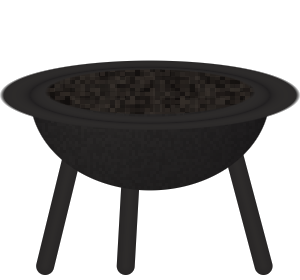
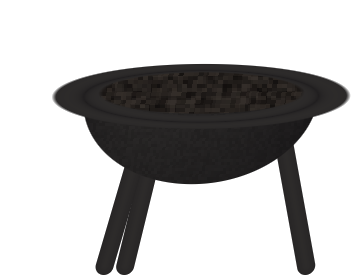
feat(title): the floor props stand in the perspective, and stop being mirrors (TD-073 T264)
Two faults, one pass.

Both racks and both braziers were the same file drawn twice, so the hall was
symmetrical in a way the plate's own walls deliberately are not. Each is now
its own seeded variant — taper counts and heights, bowl proportions, leg
spin, wax runs, wear — and the right-hand pair stands further down the nave:
smaller, higher in frame.

And they were drawn PLUMB in a scene whose camera is pitched up 15 degrees,
where every vertical converges on a zenith at fy ~= -2.05. Each prop is now
sheared toward the zenith its own floor position implies (lean_for), between
6 and 13 degrees. A shear, not a rotation: the foot stays where it was placed
and only the height tilts, which is what perspective does to a standing
object. Canvas pads the image for the shear; gen_title_props.py prints the
VESSELS lines so the rig's numbers stay derived rather than typed.

FIRES moved with the vessels — a fire burns ON something.

Slots 18 -> 20. title_assets --check caught the two new files missing from
the manifest before I did, which is the check doing its job. Captured in both
motion states; gen_title_arch --verify still exact.

diff --git a/docs/technical/spec-status.html b/docs/technical/spec-status.html
@@ -232,7 +232,7 @@ footer { margin-top:44px; padding-top:16px; border-top:1px solid var(--rule-soft
 </div>
 
 <script>
-const ROWS = [{"name":"mobile-input","done":0,"open":10,"superseded":0,"open_ids":["T148","T149","T150","T151","T151a","T152","T153","T154","T155","T156"],"blocked":[],"missing":["client/scripts/input/floating_stick.gd","client/scripts/input/geometry_selftest.gd","geometry_selftest.gd","client/scripts/input/touch_hud.gd","client/scripts/input/action_cluster.gd","client/scripts/input/probe_wheel.gd","input_scheme.gd"],"shipped_hint":[],"banner":null,"last":"2026-07-11","days":13,"status":"dormant","claude":null,"flags":[{"kind":"MISSING","detail":"open tasks name 7 file(s) not in the tree: client/scripts/input/floating_stick.gd, client/scripts/input/geometry_selftest.gd, geometry_selftest.gd, client/scripts/input/touch_hud.gd"}]},{"name":"station-ui","done":3,"open":6,"superseded":0,"open_ids":["T125","T126","T127","T128","T129","T130"],"blocked":[],"missing":["gear_slot.tscn","item_detail.tscn","ui_theme.gd"],"shipped_hint":[],"banner":null,"last":"2026-07-24","days":0,"status":"dormant","claude":"partial","flags":[{"kind":"MISSING","detail":"open tasks name 3 file(s) not in the tree: gear_slot.tscn, item_detail.tscn, ui_theme.gd"}]},{"name":"title-scene","done":14,"open":1,"superseded":0,"open_ids":["T262"],"blocked":["T262"],"missing":[],"shipped_hint":[],"banner":null,"last":"2026-07-25","days":0,"status":"blocked","claude":"active","flags":[]},{"name":"collegium-client","done":6,"open":1,"superseded":0,"open_ids":["T121"],"blocked":[],"missing":[],"shipped_hint":[],"banner":null,"last":"2026-07-24","days":0,"status":"dormant","claude":null,"flags":[]},{"name":"nave-cathedral","done":3,"open":2,"superseded":0,"open_ids":["T252","T253"],"blocked":[],"missing":[],"shipped_hint":[],"banner":null,"last":"2026-07-23","days":1,"status":"dormant","claude":null,"flags":[]},{"name":"ambient-signs","done":4,"open":0,"superseded":0,"open_ids":[],"blocked":[],"missing":[],"shipped_hint":[],"banner":null,"last":"2026-07-02","days":22,"status":"done","claude":null,"flags":[]},{"name":"board-banner","done":5,"open":0,"superseded":0,"open_ids":[],"blocked":[],"missing":[],"shipped_hint":[],"banner":null,"last":"2026-07-14","days":10,"status":"done","claude":"completed","flags":[]},{"name":"board-blend","done":7,"open":0,"superseded":0,"open_ids":[],"blocked":[],"missing":[],"shipped_hint":[],"banner":null,"last":"2026-07-21","days":3,"status":"done","claude":"completed","flags":[]},{"name":"board-consistency","done":6,"open":0,"superseded":0,"open_ids":[],"blocked":[],"missing":[],"shipped_hint":[],"banner":null,"last":"2026-07-14","days":11,"status":"done","claude":"completed","flags":[]},{"name":"board-header","done":5,"open":0,"superseded":0,"open_ids":[],"blocked":[],"missing":[],"shipped_hint":[],"banner":null,"last":"2026-07-16","days":8,"status":"done","claude":"completed","flags":[]},{"name":"board-heraldry","done":4,"open":0,"superseded":0,"open_ids":[],"blocked":[],"missing":[],"shipped_hint":[],"banner":null,"last":"2026-07-13","days":11,"status":"done","claude":"active","flags":[]},{"name":"board-lighting","done":14,"open":0,"superseded":1,"open_ids":[],"blocked":[],"missing":[],"shipped_hint":[],"banner":null,"last":"2026-07-13","days":11,"status":"done","claude":"completed","flags":[]},{"name":"collegium","done":11,"open":0,"superseded":0,"open_ids":[],"blocked":[],"missing":[],"shipped_hint":[],"banner":null,"last":"2026-07-05","days":19,"status":"done","claude":"completed","flags":[]},{"name":"contract-generation","done":5,"open":0,"superseded":0,"open_ids":[],"blocked":[],"missing":[],"shipped_hint":[],"banner":null,"last":"2026-07-02","days":22,"status":"done","claude":null,"flags":[]},{"name":"contract-reader","done":6,"open":0,"superseded":0,"open_ids":[],"blocked":[],"missing":[],"shipped_hint":[],"banner":null,"last":"2026-07-21","days":3,"status":"done","claude":"completed","flags":[]},{"name":"dependency-map","done":5,"open":0,"superseded":0,"open_ids":[],"blocked":[],"missing":[],"shipped_hint":[],"banner":null,"last":"2026-07-14","days":11,"status":"done","claude":"completed","flags":[]},{"name":"distributed-perception","done":6,"open":0,"superseded":0,"open_ids":[],"blocked":[],"missing":[],"shipped_hint":[],"banner":null,"last":"2026-07-02","days":22,"status":"done","claude":null,"flags":[]},{"name":"field-phase","done":16,"open":0,"superseded":0,"open_ids":[],"blocked":[],"missing":[],"shipped_hint":[],"banner":null,"last":"2026-07-02","days":22,"status":"done","claude":null,"flags":[]},{"name":"field-space","done":9,"open":0,"superseded":0,"open_ids":[],"blocked":[],"missing":[],"shipped_hint":[],"banner":null,"last":"2026-07-05","days":19,"status":"done","claude":"completed","flags":[]},{"name":"godot-client-catchup","done":9,"open":0,"superseded":0,"open_ids":[],"blocked":[],"missing":[],"shipped_hint":[],"banner":null,"last":"2026-07-03","days":21,"status":"done","claude":null,"flags":[]},{"name":"incarnate-signs","done":6,"open":0,"superseded":0,"open_ids":[],"blocked":[],"missing":[],"shipped_hint":[],"banner":null,"last":"2026-07-02","days":22,"status":"done","claude":null,"flags":[]},{"name":"loadout-economy","done":7,"open":0,"superseded":0,"open_ids":[],"blocked":[],"missing":[],"shipped_hint":[],"banner":null,"last":"2026-07-03","days":21,"status":"done","claude":null,"flags":[]},{"name":"lobby-resilience","done":7,"open":0,"superseded":0,"open_ids":[],"blocked":[],"missing":[],"shipped_hint":[],"banner":null,"last":"2026-07-04","days":20,"status":"done","claude":null,"flags":[]},{"name":"lobby-room","done":22,"open":0,"superseded":0,"open_ids":[],"blocked":[],"missing":[],"shipped_hint":[],"banner":null,"last":"2026-07-02","days":22,"status":"done","claude":null,"flags":[]},{"name":"main-decompose","done":7,"open":0,"superseded":0,"open_ids":[],"blocked":[],"missing":[],"shipped_hint":[],"banner":null,"last":"2026-07-24","days":0,"status":"done","claude":"completed","flags":[]},{"name":"menu-lobby","done":13,"open":0,"superseded":0,"open_ids":[],"blocked":[],"missing":[],"shipped_hint":[],"banner":null,"last":"2026-07-24","days":0,"status":"done","claude":null,"flags":[]},{"name":"probe-handler","done":8,"open":0,"superseded":0,"open_ids":[],"blocked":[],"missing":[],"shipped_hint":[],"banner":null,"last":"2026-07-02","days":22,"status":"done","claude":null,"flags":[]},{"name":"protocol-contract","done":15,"open":0,"superseded":0,"open_ids":[],"blocked":[],"missing":[],"shipped_hint":[],"banner":null,"last":"2026-07-24","days":0,"status":"done","claude":null,"flags":[]},{"name":"raw-ws-transport","done":5,"open":0,"superseded":0,"open_ids":[],"blocked":[],"missing":[],"shipped_hint":[],"banner":null,"last":"2026-06-29","days":25,"status":"done","claude":null,"flags":[]},{"name":"reader-swap","done":4,"open":0,"superseded":0,"open_ids":[],"blocked":[],"missing":[],"shipped_hint":[],"banner":null,"last":"2026-07-23","days":1,"status":"done","claude":"completed","flags":[]},{"name":"seal-ceremony","done":5,"open":0,"superseded":0,"open_ids":[],"blocked":[],"missing":[],"shipped_hint":[],"banner":null,"last":"2026-07-21","days":3,"status":"done","claude":"completed","flags":[]},{"name":"seal-polish","done":4,"open":0,"superseded":0,"open_ids":[],"blocked":[],"missing":[],"shipped_hint":[],"banner":null,"last":"2026-07-21","days":3,"status":"done","claude":"completed","flags":[]},{"name":"seal-refresh","done":3,"open":0,"superseded":0,"open_ids":[],"blocked":[],"missing":[],"shipped_hint":[],"banner":null,"last":"2026-07-21","days":3,"status":"done","claude":"completed","flags":[]},{"name":"seal-rite","done":6,"open":0,"superseded":0,"open_ids":[],"blocked":[],"missing":[],"shipped_hint":[],"banner":null,"last":"2026-07-21","days":3,"status":"done","claude":"completed","flags":[]},{"name":"writ-format","done":6,"open":0,"superseded":0,"open_ids":[],"blocked":[],"missing":[],"shipped_hint":[],"banner":null,"last":"2026-07-21","days":3,"status":"done","claude":"completed","flags":[]},{"name":"notice-board","done":12,"open":0,"superseded":1,"open_ids":[],"blocked":[],"missing":[],"shipped_hint":[],"banner":"CLOSED","last":"2026-07-24","days":0,"status":"closed","claude":"closed","flags":[]}], BUILT = "2026-07-25";
+const ROWS = [{"name":"mobile-input","done":0,"open":10,"superseded":0,"open_ids":["T148","T149","T150","T151","T151a","T152","T153","T154","T155","T156"],"blocked":[],"missing":["client/scripts/input/floating_stick.gd","client/scripts/input/geometry_selftest.gd","geometry_selftest.gd","client/scripts/input/touch_hud.gd","client/scripts/input/action_cluster.gd","client/scripts/input/probe_wheel.gd","input_scheme.gd"],"shipped_hint":[],"banner":null,"last":"2026-07-11","days":13,"status":"dormant","claude":null,"flags":[{"kind":"MISSING","detail":"open tasks name 7 file(s) not in the tree: client/scripts/input/floating_stick.gd, client/scripts/input/geometry_selftest.gd, geometry_selftest.gd, client/scripts/input/touch_hud.gd"}]},{"name":"station-ui","done":3,"open":6,"superseded":0,"open_ids":["T125","T126","T127","T128","T129","T130"],"blocked":[],"missing":["gear_slot.tscn","item_detail.tscn","ui_theme.gd"],"shipped_hint":[],"banner":null,"last":"2026-07-24","days":0,"status":"dormant","claude":"partial","flags":[{"kind":"MISSING","detail":"open tasks name 3 file(s) not in the tree: gear_slot.tscn, item_detail.tscn, ui_theme.gd"}]},{"name":"title-scene","done":15,"open":1,"superseded":0,"open_ids":["T262"],"blocked":["T262"],"missing":[],"shipped_hint":[],"banner":null,"last":"2026-07-25","days":0,"status":"blocked","claude":"active","flags":[]},{"name":"collegium-client","done":6,"open":1,"superseded":0,"open_ids":["T121"],"blocked":[],"missing":[],"shipped_hint":[],"banner":null,"last":"2026-07-24","days":0,"status":"dormant","claude":null,"flags":[]},{"name":"nave-cathedral","done":3,"open":2,"superseded":0,"open_ids":["T252","T253"],"blocked":[],"missing":[],"shipped_hint":[],"banner":null,"last":"2026-07-23","days":1,"status":"dormant","claude":null,"flags":[]},{"name":"ambient-signs","done":4,"open":0,"superseded":0,"open_ids":[],"blocked":[],"missing":[],"shipped_hint":[],"banner":null,"last":"2026-07-02","days":22,"status":"done","claude":null,"flags":[]},{"name":"board-banner","done":5,"open":0,"superseded":0,"open_ids":[],"blocked":[],"missing":[],"shipped_hint":[],"banner":null,"last":"2026-07-14","days":10,"status":"done","claude":"completed","flags":[]},{"name":"board-blend","done":7,"open":0,"superseded":0,"open_ids":[],"blocked":[],"missing":[],"shipped_hint":[],"banner":null,"last":"2026-07-21","days":3,"status":"done","claude":"completed","flags":[]},{"name":"board-consistency","done":6,"open":0,"superseded":0,"open_ids":[],"blocked":[],"missing":[],"shipped_hint":[],"banner":null,"last":"2026-07-14","days":11,"status":"done","claude":"completed","flags":[]},{"name":"board-header","done":5,"open":0,"superseded":0,"open_ids":[],"blocked":[],"missing":[],"shipped_hint":[],"banner":null,"last":"2026-07-16","days":8,"status":"done","claude":"completed","flags":[]},{"name":"board-heraldry","done":4,"open":0,"superseded":0,"open_ids":[],"blocked":[],"missing":[],"shipped_hint":[],"banner":null,"last":"2026-07-13","days":11,"status":"done","claude":"active","flags":[]},{"name":"board-lighting","done":14,"open":0,"superseded":1,"open_ids":[],"blocked":[],"missing":[],"shipped_hint":[],"banner":null,"last":"2026-07-13","days":11,"status":"done","claude":"completed","flags":[]},{"name":"collegium","done":11,"open":0,"superseded":0,"open_ids":[],"blocked":[],"missing":[],"shipped_hint":[],"banner":null,"last":"2026-07-05","days":19,"status":"done","claude":"completed","flags":[]},{"name":"contract-generation","done":5,"open":0,"superseded":0,"open_ids":[],"blocked":[],"missing":[],"shipped_hint":[],"banner":null,"last":"2026-07-02","days":22,"status":"done","claude":null,"flags":[]},{"name":"contract-reader","done":6,"open":0,"superseded":0,"open_ids":[],"blocked":[],"missing":[],"shipped_hint":[],"banner":null,"last":"2026-07-21","days":3,"status":"done","claude":"completed","flags":[]},{"name":"dependency-map","done":5,"open":0,"superseded":0,"open_ids":[],"blocked":[],"missing":[],"shipped_hint":[],"banner":null,"last":"2026-07-14","days":11,"status":"done","claude":"completed","flags":[]},{"name":"distributed-perception","done":6,"open":0,"superseded":0,"open_ids":[],"blocked":[],"missing":[],"shipped_hint":[],"banner":null,"last":"2026-07-02","days":22,"status":"done","claude":null,"flags":[]},{"name":"field-phase","done":16,"open":0,"superseded":0,"open_ids":[],"blocked":[],"missing":[],"shipped_hint":[],"banner":null,"last":"2026-07-02","days":22,"status":"done","claude":null,"flags":[]},{"name":"field-space","done":9,"open":0,"superseded":0,"open_ids":[],"blocked":[],"missing":[],"shipped_hint":[],"banner":null,"last":"2026-07-05","days":19,"status":"done","claude":"completed","flags":[]},{"name":"godot-client-catchup","done":9,"open":0,"superseded":0,"open_ids":[],"blocked":[],"missing":[],"shipped_hint":[],"banner":null,"last":"2026-07-03","days":21,"status":"done","claude":null,"flags":[]},{"name":"incarnate-signs","done":6,"open":0,"superseded":0,"open_ids":[],"blocked":[],"missing":[],"shipped_hint":[],"banner":null,"last":"2026-07-02","days":22,"status":"done","claude":null,"flags":[]},{"name":"loadout-economy","done":7,"open":0,"superseded":0,"open_ids":[],"blocked":[],"missing":[],"shipped_hint":[],"banner":null,"last":"2026-07-03","days":21,"status":"done","claude":null,"flags":[]},{"name":"lobby-resilience","done":7,"open":0,"superseded":0,"open_ids":[],"blocked":[],"missing":[],"shipped_hint":[],"banner":null,"last":"2026-07-04","days":20,"status":"done","claude":null,"flags":[]},{"name":"lobby-room","done":22,"open":0,"superseded":0,"open_ids":[],"blocked":[],"missing":[],"shipped_hint":[],"banner":null,"last":"2026-07-02","days":22,"status":"done","claude":null,"flags":[]},{"name":"main-decompose","done":7,"open":0,"superseded":0,"open_ids":[],"blocked":[],"missing":[],"shipped_hint":[],"banner":null,"last":"2026-07-24","days":0,"status":"done","claude":"completed","flags":[]},{"name":"menu-lobby","done":13,"open":0,"superseded":0,"open_ids":[],"blocked":[],"missing":[],"shipped_hint":[],"banner":null,"last":"2026-07-24","days":0,"status":"done","claude":null,"flags":[]},{"name":"probe-handler","done":8,"open":0,"superseded":0,"open_ids":[],"blocked":[],"missing":[],"shipped_hint":[],"banner":null,"last":"2026-07-02","days":22,"status":"done","claude":null,"flags":[]},{"name":"protocol-contract","done":15,"open":0,"superseded":0,"open_ids":[],"blocked":[],"missing":[],"shipped_hint":[],"banner":null,"last":"2026-07-24","days":0,"status":"done","claude":null,"flags":[]},{"name":"raw-ws-transport","done":5,"open":0,"superseded":0,"open_ids":[],"blocked":[],"missing":[],"shipped_hint":[],"banner":null,"last":"2026-06-29","days":25,"status":"done","claude":null,"flags":[]},{"name":"reader-swap","done":4,"open":0,"superseded":0,"open_ids":[],"blocked":[],"missing":[],"shipped_hint":[],"banner":null,"last":"2026-07-23","days":1,"status":"done","claude":"completed","flags":[]},{"name":"seal-ceremony","done":5,"open":0,"superseded":0,"open_ids":[],"blocked":[],"missing":[],"shipped_hint":[],"banner":null,"last":"2026-07-21","days":3,"status":"done","claude":"completed","flags":[]},{"name":"seal-polish","done":4,"open":0,"superseded":0,"open_ids":[],"blocked":[],"missing":[],"shipped_hint":[],"banner":null,"last":"2026-07-21","days":3,"status":"done","claude":"completed","flags":[]},{"name":"seal-refresh","done":3,"open":0,"superseded":0,"open_ids":[],"blocked":[],"missing":[],"shipped_hint":[],"banner":null,"last":"2026-07-21","days":3,"status":"done","claude":"completed","flags":[]},{"name":"seal-rite","done":6,"open":0,"superseded":0,"open_ids":[],"blocked":[],"missing":[],"shipped_hint":[],"banner":null,"last":"2026-07-21","days":3,"status":"done","claude":"completed","flags":[]},{"name":"writ-format","done":6,"open":0,"superseded":0,"open_ids":[],"blocked":[],"missing":[],"shipped_hint":[],"banner":null,"last":"2026-07-21","days":3,"status":"done","claude":"completed","flags":[]},{"name":"notice-board","done":12,"open":0,"superseded":1,"open_ids":[],"blocked":[],"missing":[],"shipped_hint":[],"banner":"CLOSED","last":"2026-07-24","days":0,"status":"closed","claude":"closed","flags":[]}], BUILT = "2026-07-25";
 const SEV = { CLAIM:"critical", MISSING:"warn", "LIKELY-SHIPPED":"good", STALE:"warn" };
 const RANK = { critical:0, warn:1, good:2 };
 const esc = s => String(s).replace(/[&<>"]/g, c => ({"&":"&amp;","<":"&lt;",">":"&gt;",'"':"&quot;"}[c]));

diff --git a/client/assets/ui/gen_title_props.py b/client/assets/ui/gen_title_props.py
@@ -94,17 +94,44 @@ def cyl_shade(dark, mid, lit, across, grime=0.0):
     return A.lerp_rgb(A.lerp_rgb(dark, mid, min(1.0, t * 1.7)), lit, max(0.0, t - 0.62) * 2.2)
 
 
-class Canvas:
-    """Back-to-front compositor. Each part is (sdf, shade); shade(x, y, d) -> rgb."""
+# ── The zenith, so a prop can stand in the plate's perspective ───────────────
+# The plate's camera is pitched UP 15 degrees, which is three-point perspective: every vertical in
+# the hall converges on a zenith ABOVE the frame. Solving the projection for the world up-vector
+# (0,1,0) puts that point at fx 0.5, fy -2.046 — roughly two frame heights over the top edge.
+#
+# So a prop standing left of centre must LEAN RIGHT as it rises, by an amount that depends on where
+# it stands. Drawn plumb, it reads as pasted onto the picture rather than standing in it. The lean
+# is a shear, not a rotation: the foot stays on the floor where it was placed and only the height
+# tilts, which is what perspective actually does to a standing object.
+ZENITH_Y = -2.046
+FRAME_AR = 16.0 / 9.0
 
-    def __init__(self, w, h):
+
+def lean_for(fx, base_fy):
+    """Shear in px-per-px for a prop whose foot sits at (fx, base_fy) in viewport fractions."""
+    return (0.5 - fx) / (base_fy - ZENITH_Y) * FRAME_AR
+
+
+class Canvas:
+    """Back-to-front compositor. Each part is (sdf, shade); shade(x, y, d) -> rgb.
+
+    Geometry is authored in OBJECT space (0..w, 0..h). If the object leans, the image is padded
+    on both sides by enough to hold the shear, so the object's foot stays at the image's centre
+    line and nothing clips off the edge — the caller widens its viewport fraction to match.
+    """
+
+    def __init__(self, w, h, lean=0.0):
         self.w, self.h, self.parts = w, h, []
+        self.lean = lean
+        self.pad = int(math.ceil(abs(lean) * h))
+        self.img_w = w + 2 * self.pad
 
     def add(self, sdf, shade):
         self.parts.append((sdf, shade))
 
     def px(self, x, y):
-        px_, py_ = x + 0.5, y + 0.5
+        py_ = y + 0.5
+        px_ = x + 0.5 - self.pad - self.lean * (self.h - py_)
         r = g = b = 0.0
         a = 0.0
         for sdf, shade in self.parts:
@@ -231,15 +258,16 @@ def chandelier(w=420, h=300):
 
 # ── The candle rack: an aged iron stand of votive tapers ─────────────────────
 
-def candle_rack(w=520, h=300):
-    c = Canvas(w, h)
-    tray_y = h * 0.70
+def candle_rack(w=520, h=300, seed=0, lean=0.0):
+    c = Canvas(w, h, lean)
+    tray_y = h * (0.70 + 0.02 * _h(seed, 1, 41))
     leg = w * 0.014
+    splay = 0.055 + 0.020 * _h(seed, 2, 43)
 
     # Frame: two splayed legs, a foot bar, and the tray the tapers stand in.
     for sx in (-1, 1):
         c.add(lambda x, y, sx=sx: sd_seg(x, y, w * (0.5 + sx * 0.36), tray_y,
-                                         w * (0.5 + sx * 0.42), h * 0.97, leg),
+                                         w * (0.5 + sx * (0.36 + splay)), h * 0.97, leg),
               lambda x, y, d: A.lerp_rgb(IRON_DK, IRON_MID, 0.40))
     c.add(lambda x, y: sd_box(x, y, w * 0.5, h * 0.93, w * 0.40, leg * 0.8),
           lambda x, y, d: A.lerp_rgb(IRON_DK, IRON_MID, 0.32))
@@ -247,12 +275,15 @@ def candle_rack(w=520, h=300):
           lambda x, y, d: cyl_shade(IRON_DK, IRON_MID, IRON_HI,
                                     max(-1.0, min(1.0, (y - tray_y) / (h * 0.028)))))
 
-    # Two ranks of tapers at wildly differing heights — the irregularity IS the prop.
-    for rank, (yoff, scale, count) in enumerate(((0.0, 1.0, 13), (-h * 0.05, 0.86, 12))):
+    # Two ranks of tapers at wildly differing heights — the irregularity IS the prop, and the
+    # counts come off the seed so two racks in one hall are never the same rack twice.
+    n0 = 11 + int(4 * _h(seed, 3, 47))
+    ranks = ((0.0, 1.0, n0), (-h * 0.05, 0.86, n0 - 1 - int(2 * _h(seed, 4, 53))))
+    for rank, (yoff, scale, count) in enumerate(ranks):
         for i in range(count):
             fx = (i + 0.5) / count
             px_ = w * (0.11 + 0.78 * fx) + (rank * w * 0.028)
-            tall = h * (0.16 + 0.30 * _h(i, rank, 11)) * scale
+            tall = h * (0.16 + 0.30 * _h(i, rank, 11 + seed)) * scale
             cw = w * 0.0105 * scale
             base_y = tray_y + yoff - h * 0.012
             c.add(lambda x, y, px_=px_, base_y=base_y, tall=tall, cw=cw:
@@ -267,15 +298,15 @@ def candle_rack(w=520, h=300):
 
     # Heavy wax runs down the tray and the frame: what actually says "this rack is old".
     def run_shade(x, y, d):
-        return A.lerp_rgb(WAX_MID, WAX_DK, 0.35 + 0.30 * _h(int(x) // 4, 0, 13))
+        return A.lerp_rgb(WAX_MID, WAX_DK, 0.35 + 0.30 * _h(int(x) // 4, 0, 13 + seed))
 
     # They CLING to the tray's lower edge and stop: wax that hangs free in long strands reads as
     # a stalactite, not as decades of drip on an iron lip.
     lip = tray_y + h * 0.028
-    for i in range(11):
-        rx_ = w * (0.13 + 0.74 * _h(i, 1, 17))
-        drop = h * (0.018 + 0.055 * _h(i, 2, 19))
-        rw = w * (0.006 + 0.006 * _h(i, 3, 23))
+    for i in range(9 + int(5 * _h(seed, 5, 59))):
+        rx_ = w * (0.13 + 0.74 * _h(i, 1, 17 + seed))
+        drop = h * (0.018 + 0.055 * _h(i, 2, 19 + seed))
+        rw = w * (0.006 + 0.006 * _h(i, 3, 23 + seed))
         c.add(lambda x, y, rx_=rx_, drop=drop, rw=rw:
               min(sd_box(x, y, rx_, lip - h * 0.012 + drop * 0.5, rw, drop * 0.5 + h * 0.012),
                   sd_circle(x, y, rx_, lip + drop, rw * 0.95)), run_shade)
@@ -284,13 +315,17 @@ def candle_rack(w=520, h=300):
 
 # ── The brazier: a standing iron bowl of dead coals ──────────────────────────
 
-def brazier(w=300, h=280):
-    c = Canvas(w, h)
+def brazier(w=300, h=280, seed=0, lean=0.0):
+    c = Canvas(w, h, lean)
     cx = w * 0.5
-    rim_y, rim_rx, rim_ry = h * 0.34, w * 0.40, h * 0.10
+    # The bowl is not turned to the same angle twice, and no two were beaten to the same depth.
+    rim_y = h * (0.32 + 0.04 * _h(seed, 1, 61))
+    rim_rx = w * (0.375 + 0.045 * _h(seed, 2, 67))
+    rim_ry = h * (0.092 + 0.018 * _h(seed, 3, 71))
     leg = w * 0.030
+    spin = math.tau * _h(seed, 4, 73) / 3.0        # which way the three legs happen to stand
 
-    for th in (math.tau * 0.08, math.tau * 0.40, math.tau * 0.72):
+    for th in (spin + math.tau * 0.08, spin + math.tau * 0.40, spin + math.tau * 0.72):
         px_ = cx + math.cos(th) * rim_rx * 0.72
         c.add(lambda x, y, px_=px_: sd_seg(x, y, px_, rim_y + h * 0.10,
                                            cx + (px_ - cx) * 1.5, h * 0.95, leg),
@@ -315,8 +350,8 @@ def brazier(w=300, h=280):
 
     def coal_shade(x, y, d):
         # Dead coals: broken, ashed over, NOT glowing. The fire is the engine's job.
-        n = _h(int(x) // 5, int(y) // 4, 7)
-        ash = _h(int(x) // 9, int(y) // 7, 11)
+        n = _h(int(x) // 5, int(y) // 4, 7 + seed)
+        ash = _h(int(x) // 9, int(y) // 7, 11 + seed)
         c0 = A.lerp_rgb((16, 13, 12), (44, 38, 34), n)
         return A.lerp_rgb(c0, (78, 72, 66), 0.30 * ash)
 
@@ -325,18 +360,61 @@ def brazier(w=300, h=280):
     return c
 
 
+# Where each floor prop STANDS: (x, centre-y, the object's own width as a viewport fraction).
+# Deliberately not mirrored — the right-hand pair stands a little further down the nave, so it is
+# smaller and sits higher in the frame. A hall whose two sides match exactly reads as a diagram.
+STANDING = {
+    "candle_rack":   (0.128, 0.770, 0.150),
+    "candle_rack_b": (0.876, 0.762, 0.142),
+    "brazier":       (0.318, 0.840, 0.070),
+    "brazier_b":     (0.688, 0.831, 0.066),
+}
+
+
+def place(name, obj_w, obj_h):
+    """(lean, the rig's width fraction) for a prop standing at STANDING[name].
+
+    The width fraction is the OBJECT's, widened for the shear padding, so the object renders at
+    the size asked for however far it leans.
+    """
+    fx, cy, wf = STANDING[name]
+    base_fy = cy + wf * FRAME_AR * (obj_h / obj_w) * 0.5
+    lean = lean_for(fx, base_fy)
+    img_w = obj_w + 2 * int(math.ceil(abs(lean) * obj_h))
+    return lean, wf * img_w / obj_w
+
+
 def main():
     # LITERAL relative paths, run from client/assets/ui/ (canon S5b): tools/asset_map.py derives
     # producer edges from these strings.
     cen = censer()
-    A.write_png("title/censer.png", cen.w, cen.h, cen.px)
+    A.write_png("title/censer.png", cen.img_w, cen.h, cen.px)
     cha = chandelier()
-    A.write_png("title/chandelier.png", cha.w, cha.h, cha.px)
-    rack = candle_rack()
-    A.write_png("title/candle_rack.png", rack.w, rack.h, rack.px)
-    bra = brazier()
-    A.write_png("title/brazier.png", bra.w, bra.h, bra.px)
-    print("gen_title_props OK — censer, chandelier, candle rack, brazier (unlit, alpha).")
+    A.write_png("title/chandelier.png", cha.img_w, cha.h, cha.px)
+
+    rl, wl = place("candle_rack", 520, 300)
+    rack = candle_rack(seed=1, lean=rl)
+    A.write_png("title/candle_rack.png", rack.img_w, rack.h, rack.px)
+
+    rr, wr = place("candle_rack_b", 520, 300)
+    rack_b = candle_rack(seed=2, lean=rr)
+    A.write_png("title/candle_rack_b.png", rack_b.img_w, rack_b.h, rack_b.px)
+
+    bl, wbl = place("brazier", 300, 280)
+    bra = brazier(seed=3, lean=bl)
+    A.write_png("title/brazier.png", bra.img_w, bra.h, bra.px)
+
+    br, wbr = place("brazier_b", 300, 280)
+    bra_b = brazier(seed=4, lean=br)
+    A.write_png("title/brazier_b.png", bra_b.img_w, bra_b.h, bra_b.px)
+
+    print("gen_title_props OK — censer, chandelier, two racks, two braziers (unlit, alpha).")
+    print("  VESSELS lines for title_scene.gd (width includes the shear padding):")
+    for name, cv, wfrac in (("candle_rack", rack, wl), ("candle_rack_b", rack_b, wr),
+                            ("brazier", bra, wbl), ("brazier_b", bra_b, wbr)):
+        fx, cy, _ = STANDING[name]
+        print('    ["%s.png", Vector3(%.4f, %.4f, %.4f), %.3f],  # lean %+.3f, %dx%d'
+              % (name, fx, cy, wfrac, cv.h / cv.img_w, cv.lean, cv.img_w, cv.h))
 
 
 if __name__ == "__main__":

diff --git a/specs/title-scene/asset-manifest.md b/specs/title-scene/asset-manifest.md
@@ -136,8 +136,10 @@ of them are the architecture. Any piece you do not author simply stays with the 
 
 | File | Size | Alpha | Notes |
 |---|---|---|---|
-| `candle_rack.png` | 520×300 | yes | a rank of tapers at **varying heights** |
-| `brazier.png` | 300×280 | yes | large standing iron brazier, **no flame** |
+| `candle_rack.png` | 658×300 | yes | a rank of tapers at **varying heights**; stands left |
+| `candle_rack_b.png` | 660×300 | yes | its own rack, not a mirror; stands right, further off |
+| `brazier.png` | 362×280 | yes | large standing iron brazier, **no flame**; stands left |
+| `brazier_b.png` | 364×280 | yes | a different bowl; stands right, further off |
 
 > A votive candle rack: an aged iron stand holding two dozen white wax candles of differing heights,
 > heavy wax runs down the frame. **Unlit — draw the candles but NOT the flames**, transparent
@@ -146,8 +148,18 @@ of them are the architecture. Any piece you do not author simply stays with the 
 Flames are deliberately excluded: they are Layer 3, generated in-engine so each flickers
 independently.
 
-> **Shipped, and generated:** `client/assets/ui/gen_title_props.py` emits all four props (censer,
-> chandelier, candle rack, brazier) as anti-aliased signed-distance parts composited back to front.
+> **The floor pairs are not mirrors, in two senses.** Each is its own **seeded** variant — taper
+> counts and heights, bowl proportions, how the three legs happen to stand — and each is drawn
+> **leaning** toward the zenith its own floor position implies. This camera is pitched up 15°, so
+> every vertical in the hall converges above the frame (at fy ≈ −2.05); a prop drawn plumb reads as
+> pasted onto the picture instead of standing in it. The lean is a **shear**, not a rotation: the
+> foot stays where it was placed and only the height tilts. The right-hand pair also stands a
+> little further down the nave, so it is smaller and higher in frame. Sizes above include the
+> padding the shear needs, and `gen_title_props.py` prints the matching `VESSELS` lines — the
+> generator owns that geometry.
+
+> **Shipped, and generated:** `client/assets/ui/gen_title_props.py` emits all six props (censer,
+> chandelier, two racks, two braziers) as anti-aliased signed-distance parts composited back to front.
 > **These are Python and not Aseprite on purpose**, and it is not a contradiction of TD-057: that
 > finding was measured at **17×22 px**, where a shape function cannot decide which pixel carries the
 > crossguard. At 140–520px in the painted register the job is *form* — cylinders, spheres, drip,

diff --git a/docs/technical/asset-map.md b/docs/technical/asset-map.md
@@ -80,7 +80,9 @@
 - **`banner_left.png`** — produced-by: `client/assets/ui/gen_title_banners.py` · consumed-by: —
 - **`banner_right.png`** — produced-by: `client/assets/ui/gen_title_banners.py` · consumed-by: —
 - **`brazier.png`** — produced-by: `client/assets/ui/gen_title_props.py` · consumed-by: —
+- **`brazier_b.png`** — produced-by: `client/assets/ui/gen_title_props.py` · consumed-by: —
 - **`candle_rack.png`** — produced-by: `client/assets/ui/gen_title_props.py` · consumed-by: —
+- **`candle_rack_b.png`** — produced-by: `client/assets/ui/gen_title_props.py` · consumed-by: —
 - **`censer.png`** — produced-by: `client/assets/ui/gen_title_props.py` · consumed-by: —
 - **`chandelier.png`** — produced-by: `client/assets/ui/gen_title_props.py` · consumed-by: —
 - **`dust_overlay.png`** — produced-by: `client/assets/ui/gen_title_overlays.py` · consumed-by: —
@@ -204,7 +206,7 @@
 - **`client/assets/ui/gen_title_banners.py`** → `banner_center.png`, `banner_left.png`, `banner_right.png`
 - **`client/assets/ui/gen_title_overlays.py`** → `dust_overlay.png`, `light_shaft.png`, `smoke_overlay.png`
 - **`client/assets/ui/gen_title_plate.py`** → `hall_plate.png`
-- **`client/assets/ui/gen_title_props.py`** → `brazier.png`, `candle_rack.png`, `censer.png`, `chandelier.png`
+- **`client/assets/ui/gen_title_props.py`** → `brazier.png`, `brazier_b.png`, `candle_rack.png`, `candle_rack_b.png`, `censer.png`, `chandelier.png`
 
 
 ## Orphans (on-disk asset, no producer & no consumer) — advisory
@@ -225,4 +227,4 @@
 - `client/scripts/board/wax_seal.gd:21` — `load/preload SEAL_TEX`
 - `client/scripts/main.gd:1505` — `load/preload path`
 - `client/scripts/main.gd:1509` — `load/preload normal_path`
-- `client/scripts/ui/title_scene.gd:118` — `load/preload p`
+- `client/scripts/ui/title_scene.gd:127` — `load/preload p`

diff --git a/specs/title-scene/tasks.md b/specs/title-scene/tasks.md
@@ -146,6 +146,22 @@
       Test: **V4** — captured in both motion states; title, rule and all four options sit on dark
       nave with no layer behind them.
 
+- [x] T264 [R241, R243 L2 / V2] — **The floor props stand in the perspective, and stop being
+      mirrors.** Two faults, one pass. (1) Both racks and both braziers were the same file drawn
+      twice, so the hall was symmetrical in a way the plate's own walls deliberately are not — each
+      is now its own **seeded** variant (taper counts and heights, bowl proportions, leg spin, wax
+      runs, wear), and the right-hand pair stands further down the nave: smaller, higher in frame.
+      (2) They were drawn **plumb** in a scene whose camera is pitched up 15°, where every vertical
+      converges on a zenith at fy ≈ −2.05 — so each prop is now sheared toward the zenith **its own
+      floor position implies** (`lean_for`), between 6° and 13°. A shear, not a rotation: the foot
+      stays where it was placed and only the height tilts, which is what perspective does to a
+      standing object. `Canvas` pads the image for the shear and `gen_title_props.py` prints the
+      `VESSELS` lines, so the rig's numbers stay derived. `FIRES` moved with the vessels — a fire
+      burns *on* something. Slots 18 → 20.
+      Test: **V2** — captured; the props now tilt with the piers above them rather than against
+      them, and `title_assets --check` is green at 20 of 20 (it caught the two new files missing
+      from the manifest, which is the check doing its job).
+
 ## Blocked
 
 - [ ] T262 [audio] — **Ambient audio.** BLOCKED: no audio assets, no audio pipeline, and no

diff --git a/docs/technical/spec-status.md b/docs/technical/spec-status.md
@@ -23,7 +23,7 @@ These are disagreements between what a spec says and what the tree contains.
 |---|---|---:|---:|---:|---|---|
 | `mobile-input` | 🟡 dormant | 0 | 10 | 0 | 2026-07-11 | MISSING |
 | `station-ui` | 🟡 dormant | 3 | 6 | 0 | 2026-07-24 | MISSING |
-| `title-scene` | ⛔ blocked | 14 | 1 | 0 | 2026-07-25 | — |
+| `title-scene` | ⛔ blocked | 15 | 1 | 0 | 2026-07-25 | — |
 | `collegium-client` | 🟡 dormant | 6 | 1 | 0 | 2026-07-24 | — |
 | `nave-cathedral` | 🟡 dormant | 3 | 2 | 0 | 2026-07-23 | — |
 | `ambient-signs` | ✅ done | 4 | 0 | 0 | 2026-07-02 | — |
